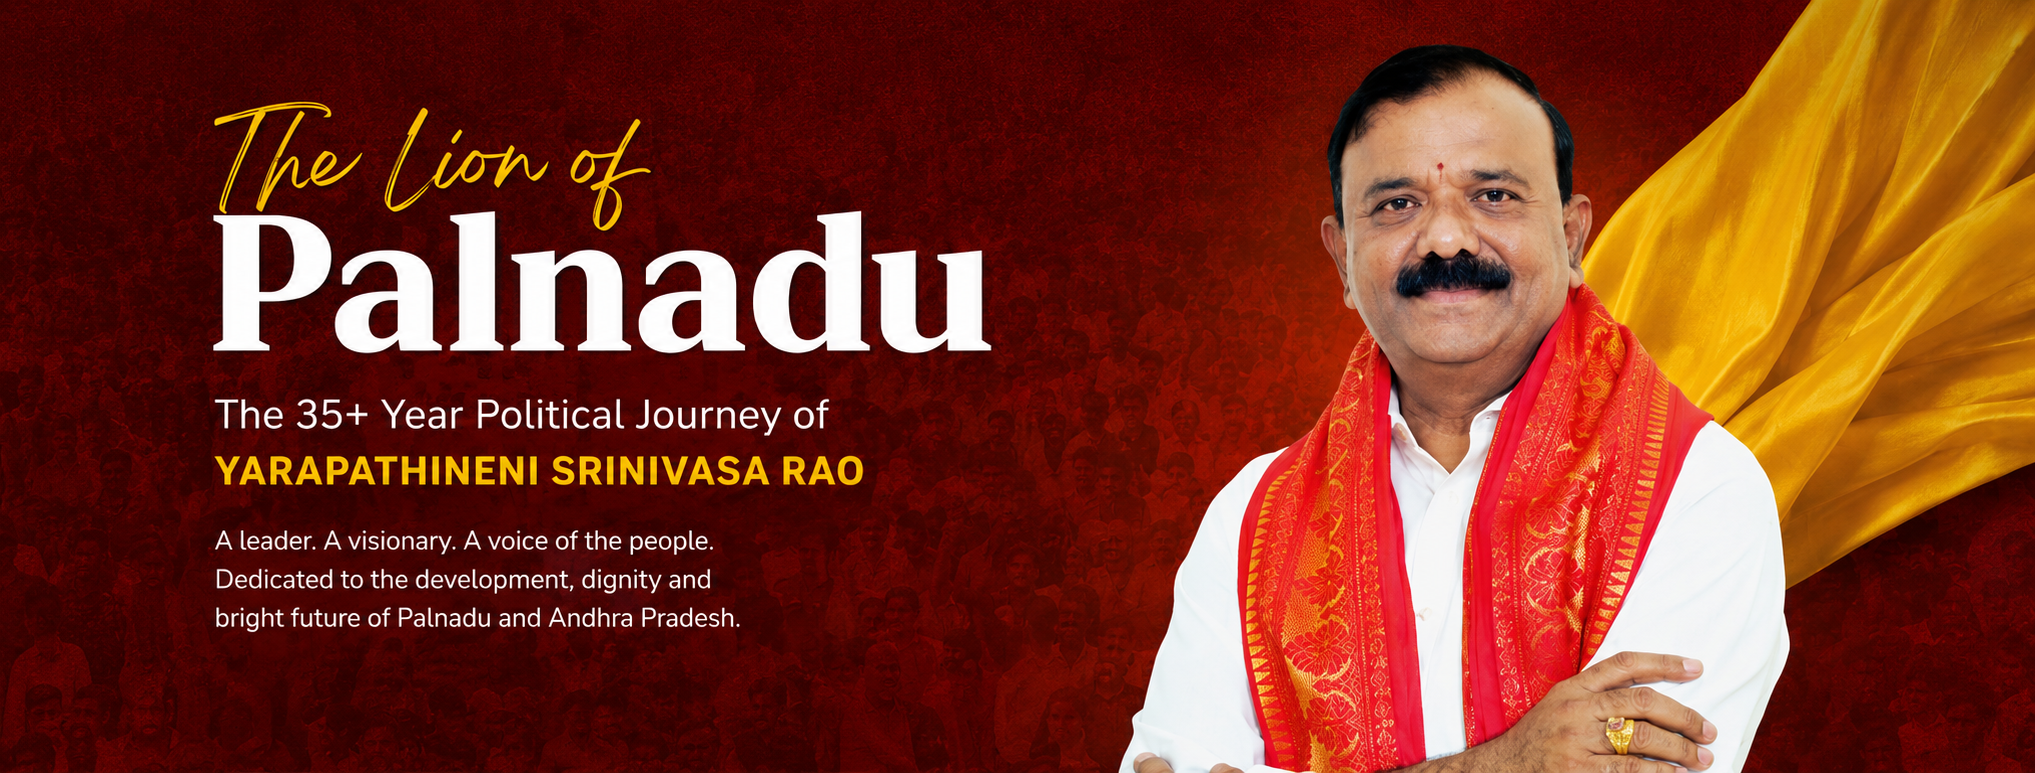
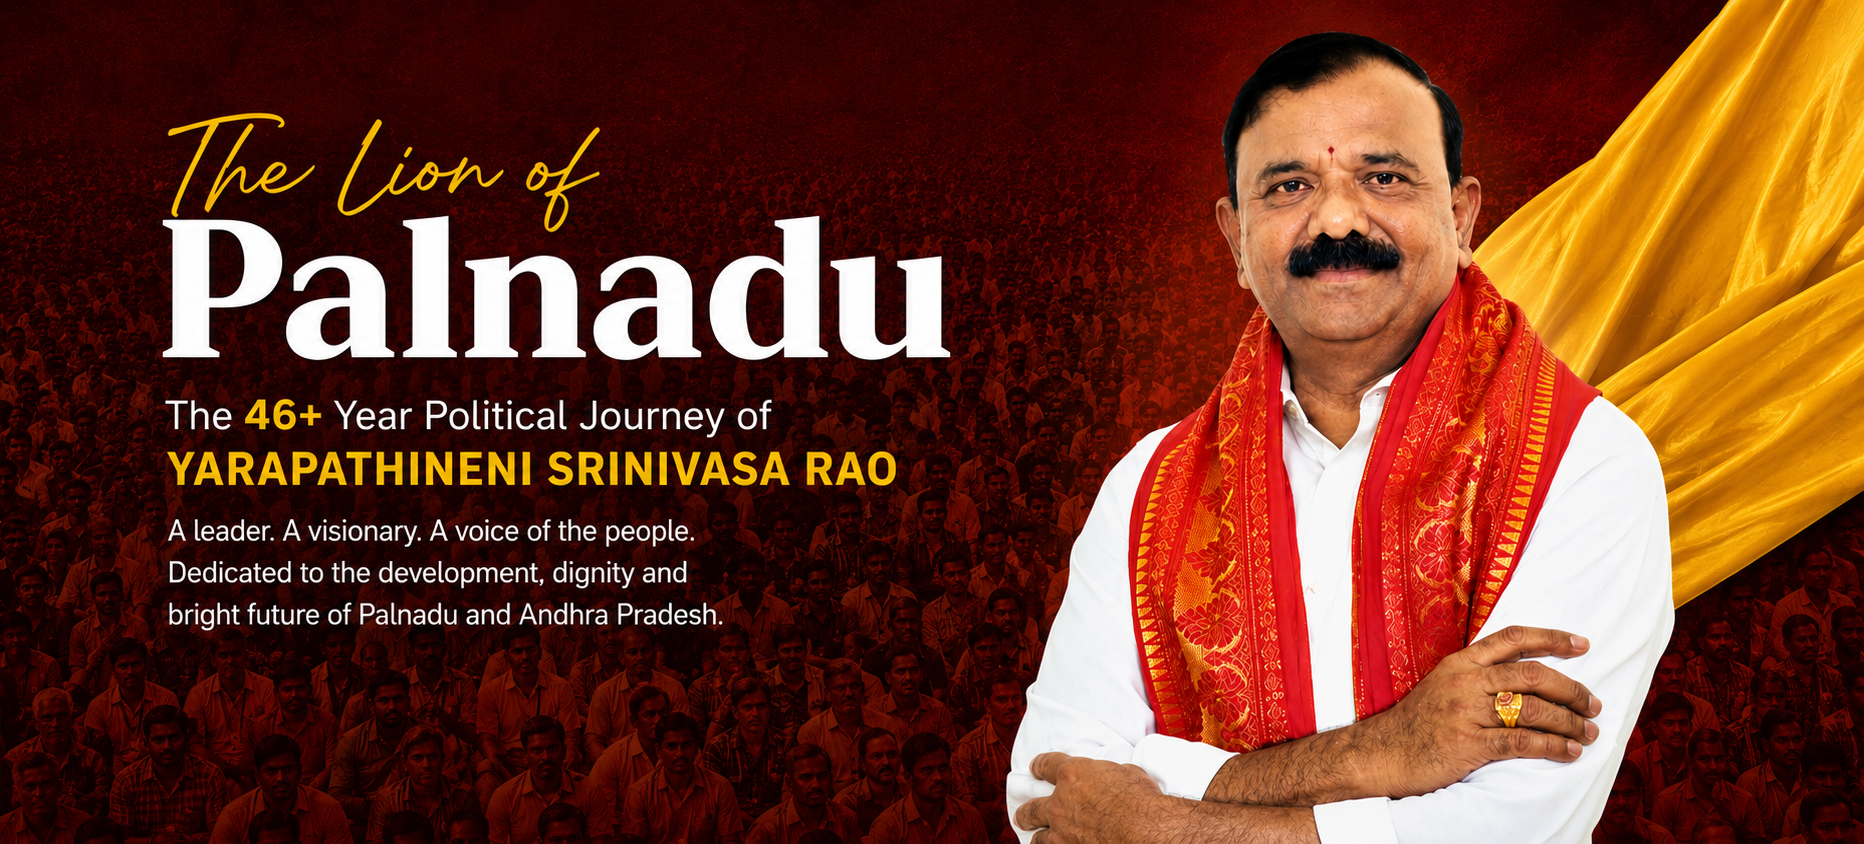
added new images

diff --git a/src/Components/LandingPage/HeroSection.js b/src/Components/LandingPage/HeroSection.js
@@ -1,7 +1,7 @@
 import React from 'react'
-import banner1img from "../../assests/banner1.jpg";
+import banner1img from "../../assests/banner1.png";
 import banner2img from "../../assests/banner2.png";
-import banner3img  from "../../assests/banner3.jpg";
+import banner3img  from "../../assests/banner3.png";
 import "../../Styles/HeroSection.css";
 
 
@@ -17,10 +17,10 @@ function HeroSection() {
   </div>
   <div className="carousel-inner">
     <div className="carousel-item active">
-      <img src={banner2img} className="d-block w-100" alt="..."/>
+      <img src={banner1img} className="d-block w-100" alt="..."/>
     </div>
     <div className="carousel-item">
-      <img src={banner1img} className="d-block w-100" alt="..."/>
+      <img src={banner2img} className="d-block w-100" alt="..."/>
     </div>
     <div className="carousel-item">
       <img src={banner3img} className="d-block w-100" alt="..."/>

diff --git a/src/Components/LandingPage/Footer.js b/src/Components/LandingPage/Footer.js
@@ -80,15 +80,15 @@ const Footer = () => {
             <h4>Contact Info</h4>
 
             <p>
-              <FaMapMarkerAlt /> Gurazala, Palnadu District
+              <FaMapMarkerAlt className="foot-icons"/> Gurazala, Palnadu District
             </p>
 
             <p>
-              <FaPhoneAlt /> +91 9849355955
+              <FaPhoneAlt  className="foot-icons"/> +91 9849355955
             </p>
 
             <p>
-              <FaEnvelope /> yarapathinenimla@gmail.com
+              <FaEnvelope className="foot-icons"/> yarapathinenimla@gmail.com
             </p>
           </div>
 

diff --git a/src/Styles/HeroSection.css b/src/Styles/HeroSection.css
@@ -6,10 +6,6 @@
 
 @media(max-width:768px){
 
-    .hero-section img{
-        height: 170px; 
-    }
-
     .hero-section{
         padding-top: 10px;
     }

diff --git a/src/Styles/Footer.css b/src/Styles/Footer.css
@@ -141,3 +141,9 @@
     text-align:center;
   }
 }
+
+.foot-icons{
+    color: #f8c100;
+    font-size: large;
+    margin-right: 3px;
+}
